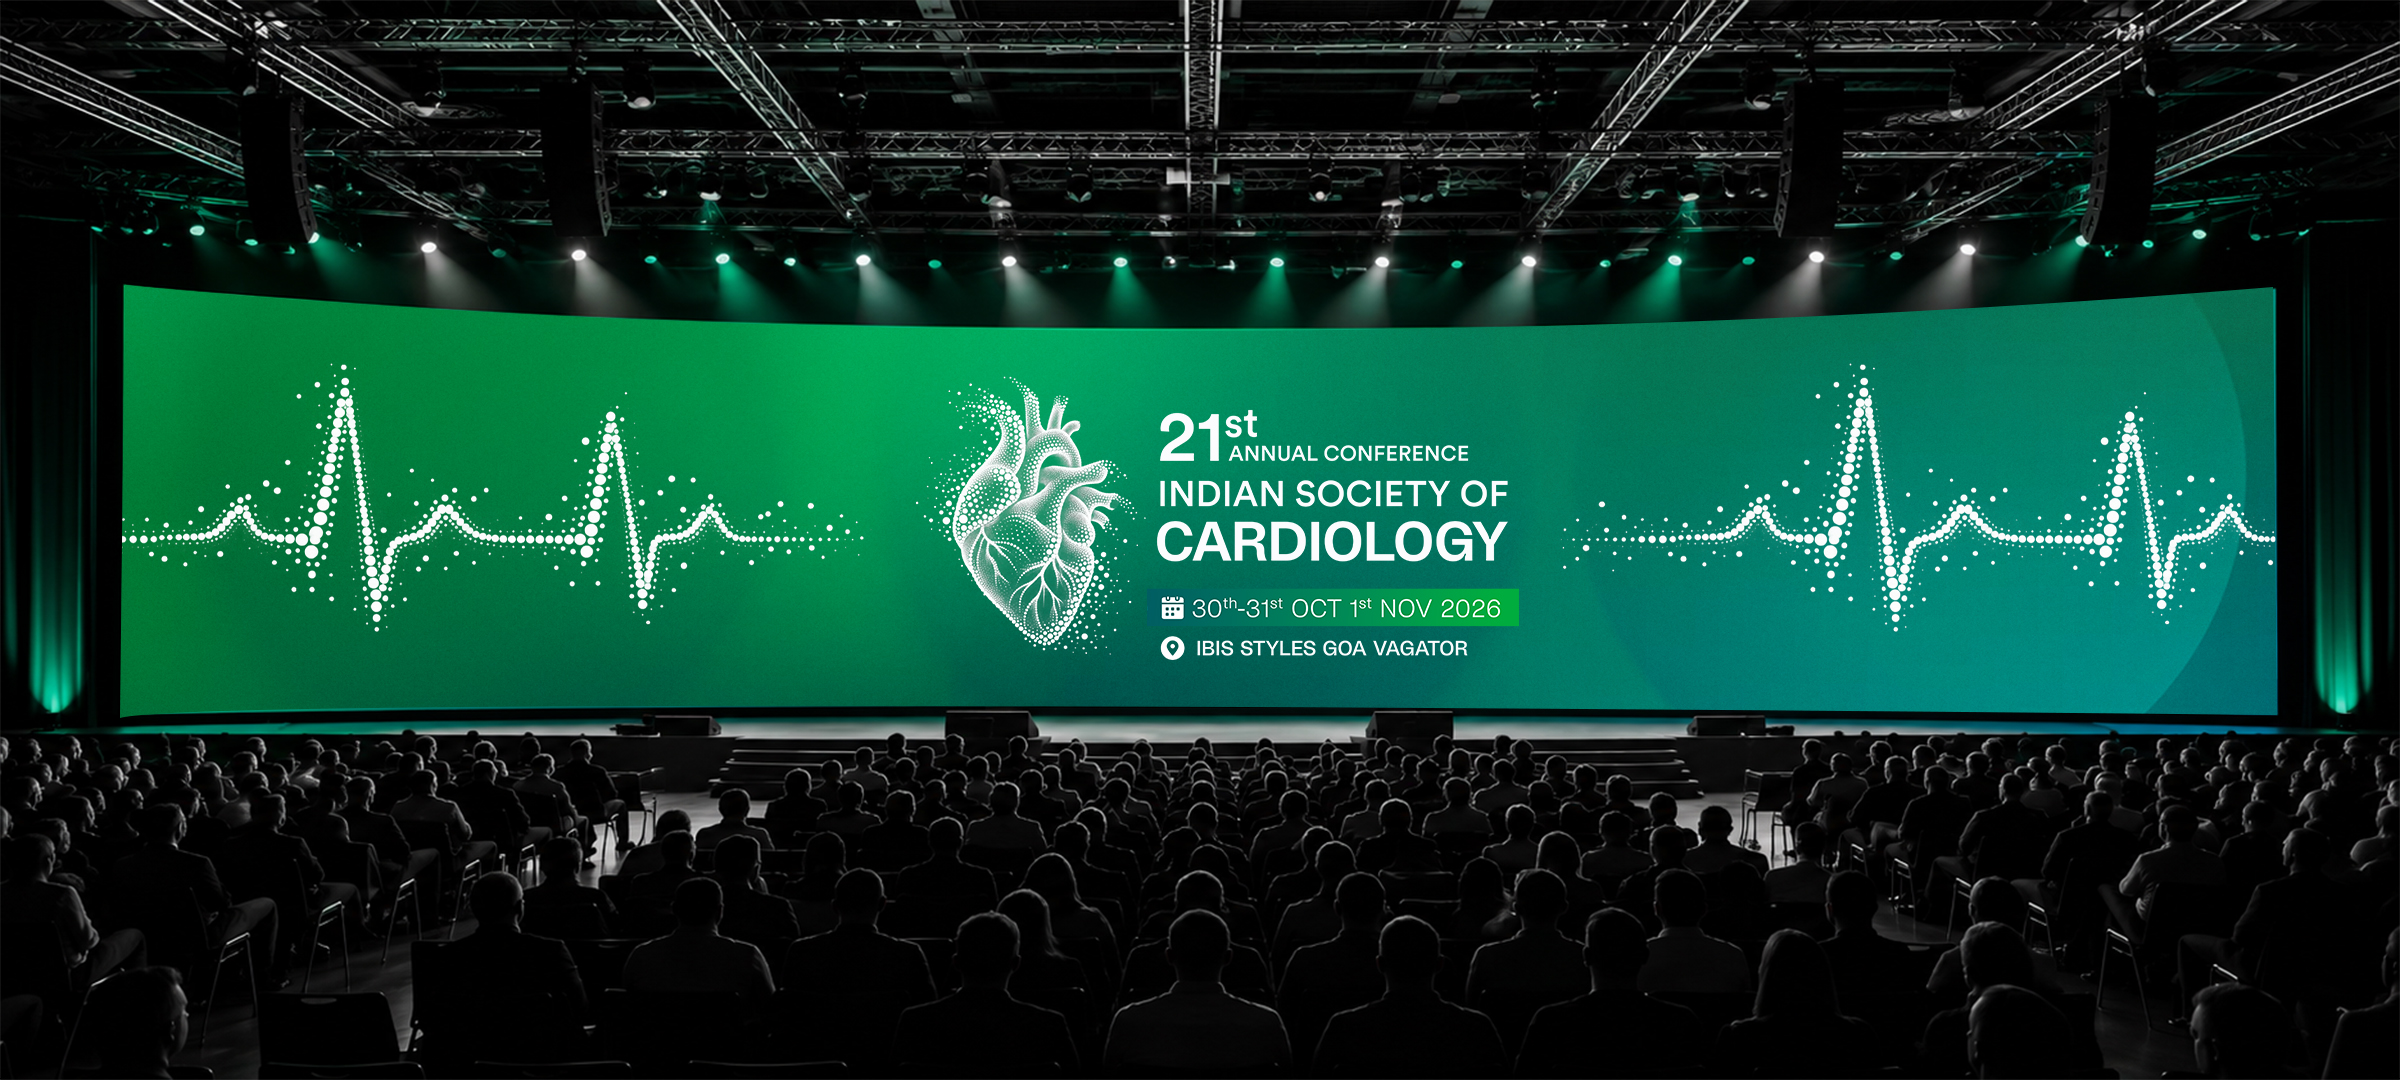
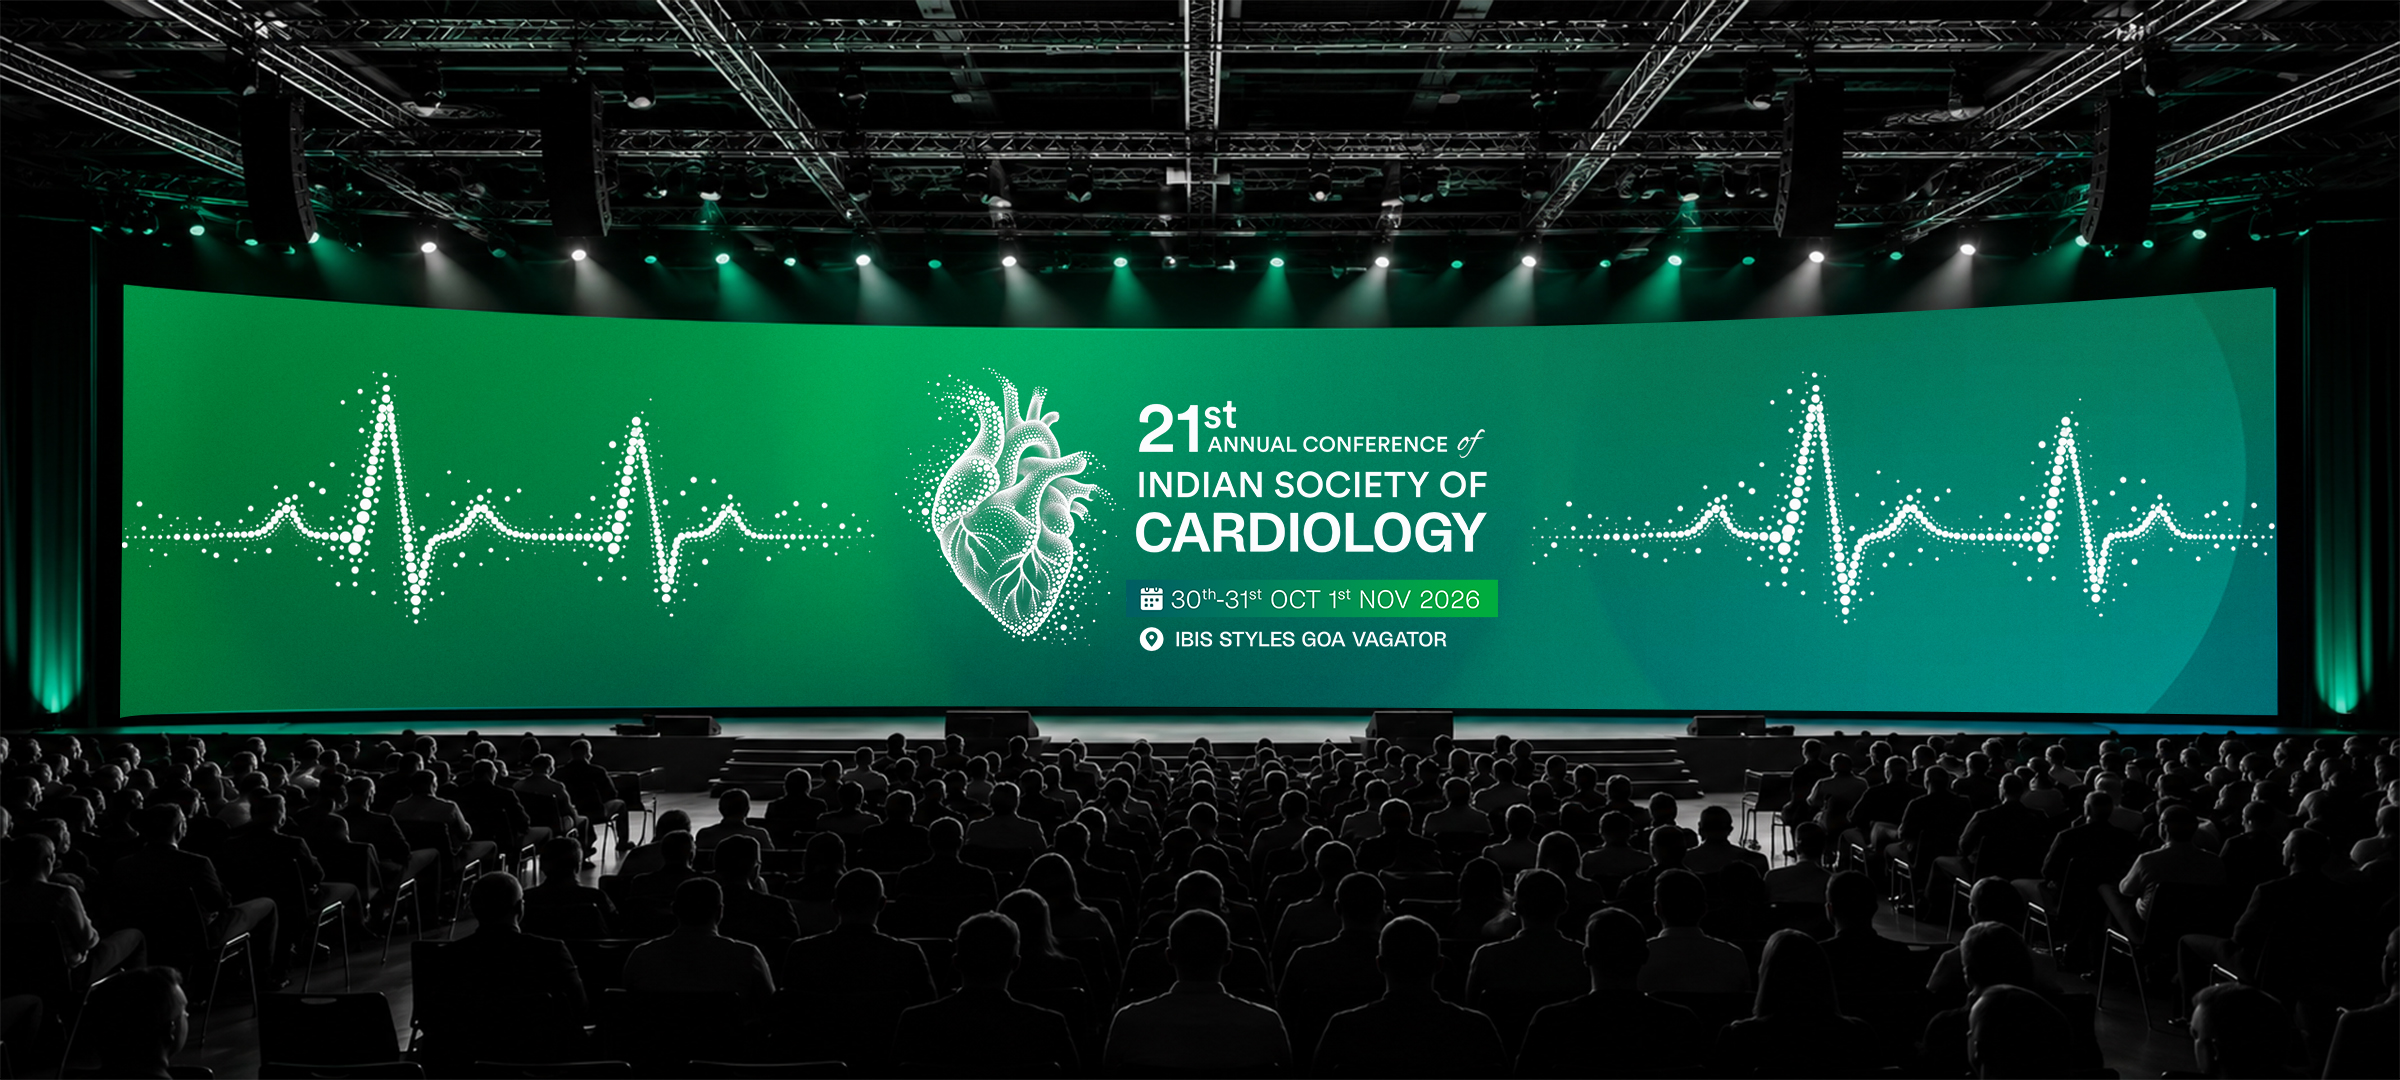
feat: add screen2 and screen3 deliverable showcase images

Changed region(s): [[0.375, 0.3361, 0.6562, 0.6111], [0.6562, 0.3361, 0.9688, 0.5806], [0.0625, 0.3361, 0.3438, 0.5806]]

diff --git a/index.html b/index.html
@@ -1603,7 +1603,7 @@
     if (window.gsap) gsap.globalTimeline.timeScale(.62);
     const $ = s => document.querySelector(s), $$ = s => [...document.querySelectorAll(s)];
     const D = [
-      ['21st ISC Conference', 'Conference Identity', '2026', 'linear-gradient(180deg, rgba(0,0,0,0.52) 0%, rgba(0,0,0,0.18) 35%, rgba(0,0,0,0.78) 100%), url(assets/images/cases/isc-cardiology-conference.jpg) center/cover', '#ffffff', '', 'assets/images/cases/isc-cardiology-conference.jpg', 'A distinguished visual identity for the 21st Annual Conference of the Indian Society of Cardiology, translating the heart of the specialty into one cohesive system across keynote stages, venue environments, delegate collaterals and digital platforms.', 'assets/images/cases/isc-wide.jpg', 'assets/images/cases/screen1.jpg'],
+      ['21st ISC Conference', 'Conference Identity', '2026', 'linear-gradient(180deg, rgba(0,0,0,0.52) 0%, rgba(0,0,0,0.18) 35%, rgba(0,0,0,0.78) 100%), url(assets/images/cases/isc-cardiology-conference.jpg) center/cover', '#ffffff', '', 'assets/images/cases/isc-cardiology-conference.jpg', 'A distinguished visual identity for the 21st Annual Conference of the Indian Society of Cardiology, translating the heart of the specialty into one cohesive system across keynote stages, venue environments, delegate collaterals and digital platforms.', 'assets/images/cases/isc-wide.jpg', 'assets/images/cases/screen1.jpg', 'assets/images/cases/screen2.jpg', 'assets/images/cases/screen3.jpg'],
       ['Aravali Capital', 'Brand identity', '2026', '#212121', '#f8f5f0'],
       ['Kesar & Co.', 'Packaging', '2025', '#d8cdbb', '#212121', 'sc'],
       ['Meher Foundation', 'Annual report', '2025', '#f8f5f0', '#212121'],
